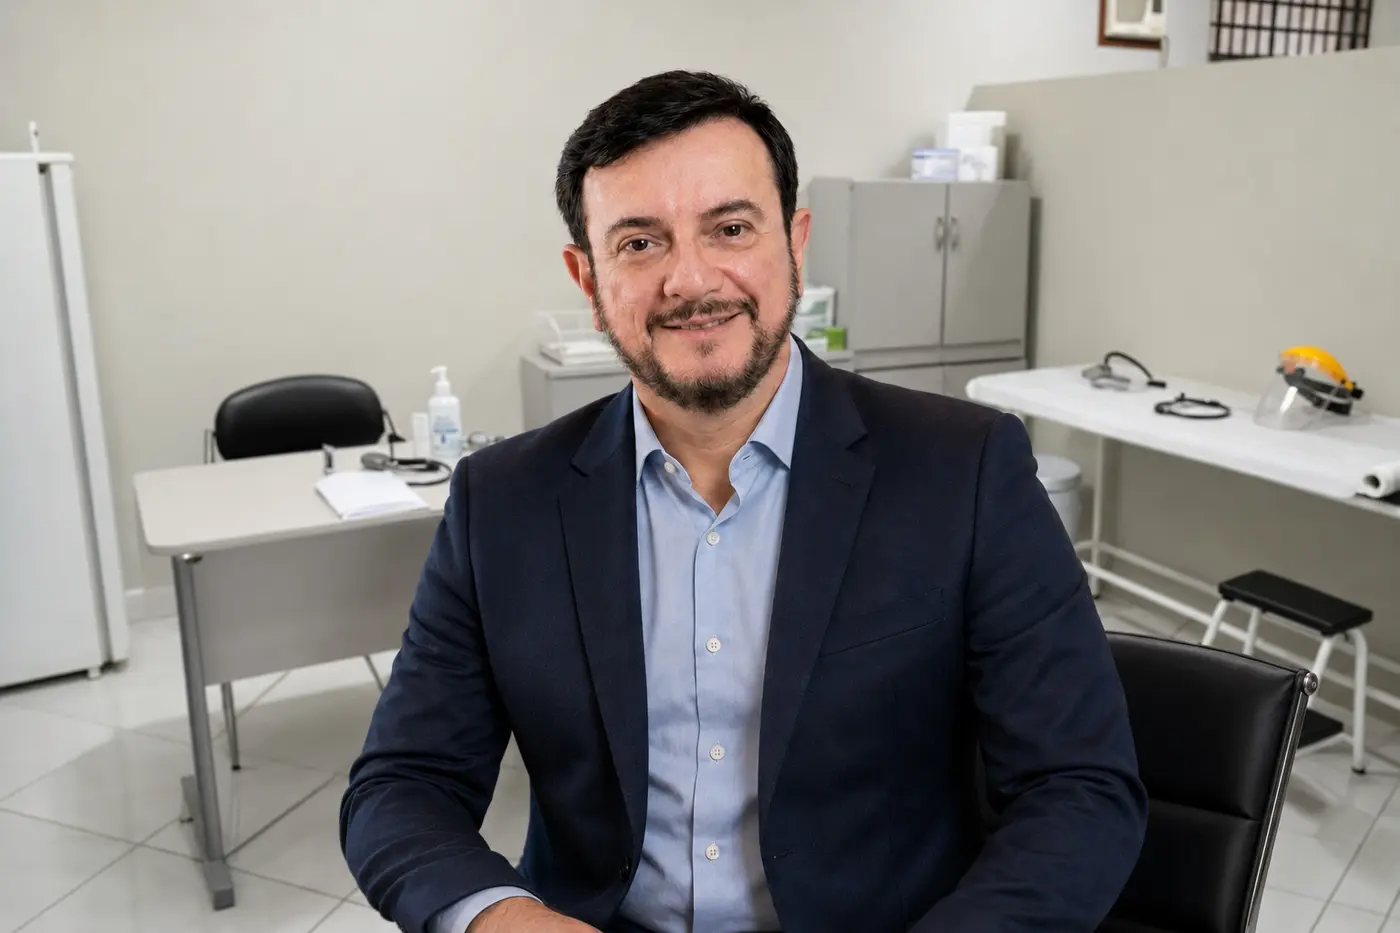
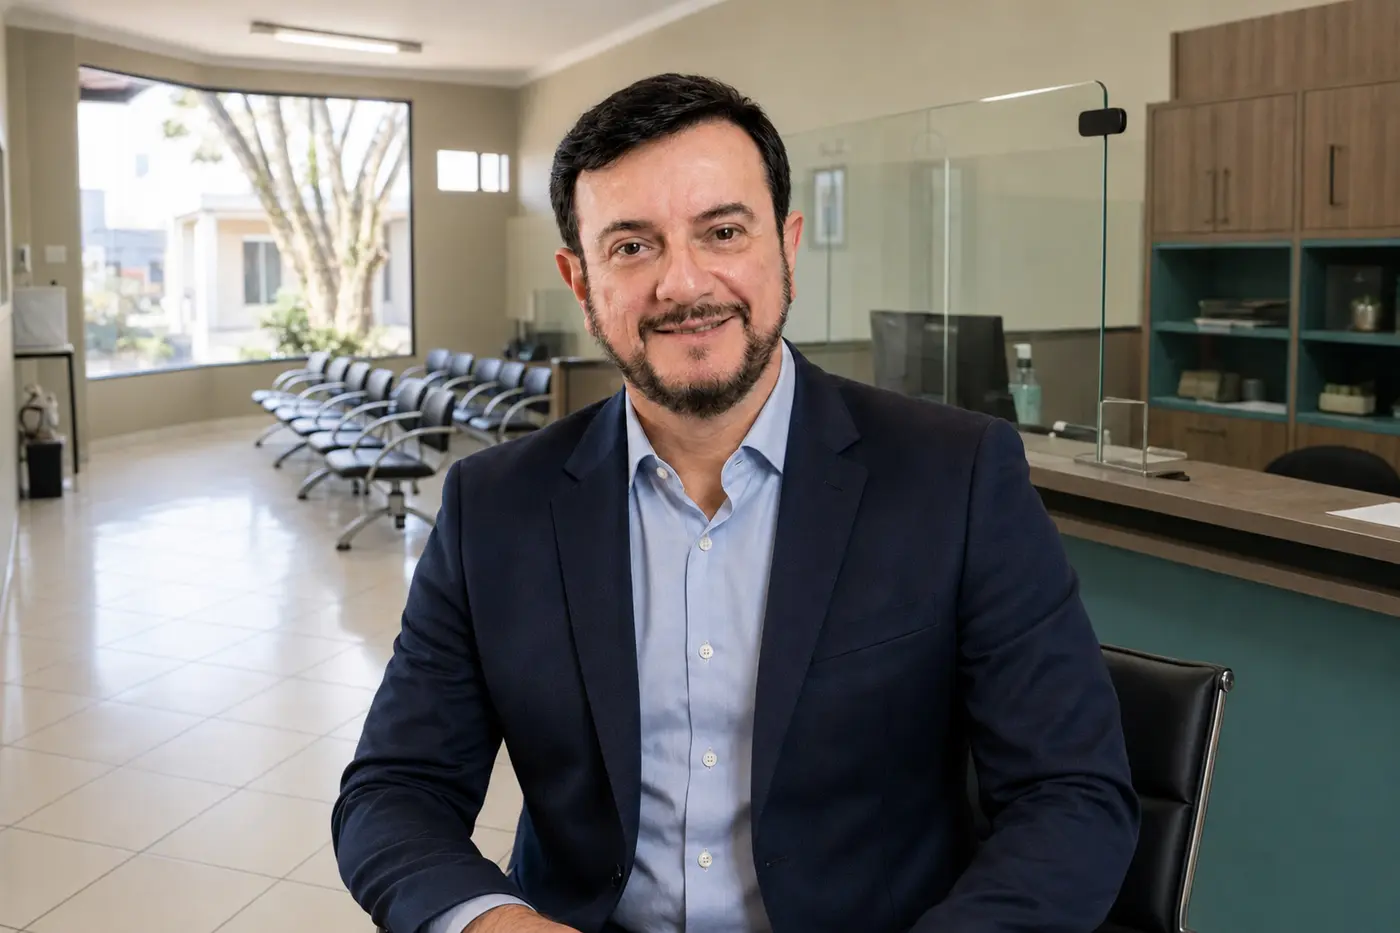
Refocus homepage on personalized respiratory assessment

diff --git a/src/app/page.tsx b/src/app/page.tsx
@@ -23,13 +23,13 @@ export default function Home() {
         <div className="hero-copy">
           <p className="kicker">Pneumologia em Maringá</p>
           <h1>Respirar bem.<br/><em>Viver por inteiro.</em></h1>
-          <p className="hero-lead">Cuidado respiratório especializado, preciso e humano — da prevenção ao tratamento.</p>
-          <div className="hero-actions"><a href="https://wa.me/5544991721222" className="button" target="_blank" rel="noreferrer">Agendar consulta <span>↗</span></a><Link href="#cuidados" className="text-link">Conheça os cuidados <span>↓</span></Link></div>
+          <p className="hero-lead">Acompanhamento personalizado, altamente qualificado e multidisciplinar, com foco em qualidade de vida e resultados duradouros.</p>
+          <div className="hero-actions"><a href="https://wa.me/5544991721222" className="button" target="_blank" rel="noreferrer">Agende sua avaliação respiratória <span>↗</span></a><Link href="#cuidados" className="text-link">Conheça os cuidados <span>↓</span></Link></div>
         </div>
         <div className="lung-art" aria-hidden="true">
           <div className="air air-one"/><div className="air air-two"/><div className="air air-three"/>
           <svg viewBox="0 0 580 660" fill="none"><path d="M291 68v184M291 182c-39 17-64 50-76 98M291 182c39 17 64 50 76 98" className="trachea"/><path d="M269 260c-20-72-66-114-114-104-52 11-90 82-102 167-17 117 18 232 104 238 76 5 113-50 114-120l-2-181Z" className="lung left"/><path d="M313 260c20-72 66-114 114-104 52 11 90 82 102 167 17 117-18 232-104 238-76 5-113-50-114-120l2-181Z" className="lung right"/><path d="M266 278c-47 39-76 91-85 160M316 278c47 39 76 91 85 160M242 323l-59-39M340 323l59-39M224 369l-56 22M358 369l56 22" className="bronchi"/></svg>
-          <div className="hero-stat"><b>20+</b><span>anos dedicados<br/>à medicina</span></div>
+          <div className="hero-stat"><b>25+</b><span>anos dedicados<br/>à medicina</span></div>
         </div>
         <div className="scroll-cue"><span>Role para descobrir</span><i/></div>
       </section>
@@ -44,7 +44,7 @@ export default function Home() {
       </section>
 
       <section className="care" id="cuidados">
-        <div className="section-head"><div><p className="kicker">Áreas de cuidado</p><h2>Um olhar completo<br/>para a sua <em>respiração.</em></h2></div><p>Da investigação de sintomas ao acompanhamento de doenças crônicas e procedimentos especializados.</p></div>
+        <div className="section-head"><div><p className="kicker">Avaliação respiratória individualizada</p><h2>Um olhar completo<br/>para a sua <em>respiração.</em></h2></div><p>Uma avaliação clínica e funcional integrada para compreender cada caso e definir um plano de cuidado verdadeiramente personalizado.</p></div>
         <div className="service-grid">
           {services.map((service, index) => <Reveal key={service.slug} delay={(index % 3) * 70}><Link className="service-card" href={`/cuidados/${service.slug}`}><span className="service-index">{service.icon}</span><div className="service-icon"><i/><i/><i/></div><h3>{service.title}</h3><p>{service.short}</p><span className="card-link">Saiba mais <b>↗</b></span></Link></Reveal>)}
         </div>
@@ -58,7 +58,7 @@ export default function Home() {
         <Reveal className="clinic-feature-copy" delay={120}>
           <p className="kicker">Estrutura completa</p>
           <h2 id="estrutura-title">Cuidado e tecnologia<br/><em>no mesmo lugar.</em></h2>
-          <p>Ambientes acolhedores e estrutura preparada para consultas, avaliações e exames respiratórios com segurança.</p>
+          <p>Ambientes acolhedores e estrutura preparada para uma avaliação respiratória individualizada, reunindo cuidado clínico e recursos funcionais de forma integrada.</p>
           <div className="clinic-feature-detail"><Image src="/clinic/equipamentos.jpeg" alt="Equipamentos para exames de função pulmonar" fill sizes="(max-width: 900px) 42vw, 22vw"/><span>Equipamentos para avaliação da função pulmonar</span></div>
         </Reveal>
       </section>
@@ -75,7 +75,17 @@ export default function Home() {
         <Reveal className="credentials-copy"><p className="kicker light">Formação & experiência</p><h2>Ciência, precisão<br/>e <em>humanidade.</em></h2><p>Médico formado pela Universidade Estadual de Maringá, com especialização em Pneumologia e área de atuação em Endoscopia Respiratória pela UNIFESP.</p><div className="degree-list"><div><span>01</span><p><b>Pneumologista</b>RQE 13548</p></div><div><span>02</span><p><b>Endoscopia Respiratória</b>RQE 158 • UNIFESP</p></div><div><span>03</span><p><b>Mestre em Ciências da Saúde</b>Universidade Estadual de Maringá</p></div><div><span>04</span><p><b>Doutor em Biociências e Fisiopatologia</b>Universidade Estadual de Maringá</p></div></div></Reveal>
       </section>
 
-      <section className="principles"><p className="kicker">Um cuidado diferente</p><div className="principle-grid"><Reveal><span>01</span><h3>Escuta atenta</h3><p>Tempo e atenção para entender seus sintomas, rotina e objetivos.</p></Reveal><Reveal delay={90}><span>02</span><h3>Decisão compartilhada</h3><p>Informação clara para que você participe de cada escolha do tratamento.</p></Reveal><Reveal delay={180}><span>03</span><h3>Medicina baseada em evidências</h3><p>Condutas atualizadas, seguras e adequadas à realidade de cada paciente.</p></Reveal></div></section>
+      <section className="principles" id="diferenciais">
+        <div className="principles-head"><div><p className="kicker">Por que escolher o Dr. Sergio e sua equipe?</p><h2>Experiência que inspira confiança.<br/><em>Cuidado que gera resultados.</em></h2></div><p>Acompanhamento personalizado, altamente qualificado e multidisciplinar, com foco em qualidade de vida e resultados duradouros.</p></div>
+        <div className="principle-grid">
+          <Reveal><span>01</span><h3>Mais de 25 anos de experiência</h3><p>Uma trajetória dedicada à pneumologia, unindo prática clínica, atualização contínua e cuidado responsável.</p></Reveal>
+          <Reveal delay={70}><span>02</span><h3>Doutor e pesquisador</h3><p>Formação acadêmica sólida e atuação científica aplicadas às decisões de cada tratamento.</p></Reveal>
+          <Reveal delay={140}><span>03</span><h3>Professor universitário</h3><p>Experiência no ensino médico, contribuindo para a formação de profissionais e para uma medicina sempre atualizada.</p></Reveal>
+          <Reveal><span>04</span><h3>Referência em broncoscopia</h3><p>Atuação especializada em endoscopia respiratória e na investigação de doenças respiratórias complexas.</p></Reveal>
+          <Reveal delay={70}><span>05</span><h3>Atendimento personalizado</h3><p>Cada avaliação considera sintomas, histórico, rotina e objetivos para construir um plano individualizado.</p></Reveal>
+          <Reveal delay={140}><span>06</span><h3>Tempo dedicado ao paciente</h3><p>Atendimento multidisciplinar, cuidadoso e com o tempo adequado para ouvir, explicar e acompanhar cada pessoa.</p></Reveal>
+        </div>
+      </section>
 
       <section className="location-feature" id="clinica">
         <div className="location-image"><Image src="/clinic/fachada.jpeg" alt="Fachada do Centro Médico do Pulmão em Maringá" fill sizes="100vw"/></div>

diff --git a/src/data/services.ts b/src/data/services.ts
@@ -9,12 +9,12 @@ export type Service = {
 };
 
 export const services: Service[] = [
-  { slug: "consulta-com-pneumologista", title: "Consulta com Pneumologista", short: "Uma avaliação completa e individualizada para cuidar da sua respiração.", eyebrow: "Cuidado integral", icon: "01", intro: "A consulta é o ponto de partida para investigar, diagnosticar e tratar doenças que afetam os pulmões e as vias aéreas, sempre com foco no bem-estar integral do paciente.", sections: [
+  { slug: "consulta-com-pneumologista", title: "Avaliação Respiratória Individualizada", short: "Uma visão completa da sua saúde respiratória para definir um cuidado integrado e personalizado.", eyebrow: "Cuidado integral", icon: "01", intro: "A avaliação respiratória individualizada integra história clínica, exame físico e, quando necessário, recursos funcionais para compreender cada caso e definir o melhor plano de cuidado.", sections: [
     { title: "Para quem é indicada", body: "Pessoas com falta de ar, tosse persistente, chiado no peito, dor torácica ou rouquidão, além de fumantes e ex-fumantes que necessitam de acompanhamento preventivo." },
     { title: "Condições acompanhadas", body: "Asma, DPOC (bronquite crônica e enfisema pulmonar), pneumonia, apneia do sono, fibrose pulmonar e sequelas respiratórias." },
     { title: "Como funciona", body: "Uma conversa detalhada sobre seu histórico, hábitos e sintomas é seguida por exame físico minucioso. Quando necessário, são solicitados exames complementares para definir o diagnóstico e o melhor plano de tratamento." },
   ]},
-  { slug: "espirometria", title: "Espirometria e Função Pulmonar", short: "O “exame do sopro” avalia a capacidade e o funcionamento dos pulmões.", eyebrow: "Diagnóstico preciso", icon: "02", intro: "Rápida, indolor e não invasiva, a espirometria mede o volume e a velocidade do ar inspirado e expirado.", sections: [
+  { slug: "espirometria", title: "Avaliação Funcional Respiratória", short: "Análise integrada da capacidade e do funcionamento dos pulmões conforme a necessidade de cada paciente.", eyebrow: "Diagnóstico preciso", icon: "02", intro: "A avaliação funcional respiratória utiliza recursos como a espirometria para analisar, de forma rápida, indolor e não invasiva, o volume e a velocidade do ar inspirado e expirado.", sections: [
     { title: "Para quem é indicada", body: "Para diagnóstico e acompanhamento de asma e DPOC, avaliação pré-operatória, investigação de tosse persistente e monitoramento de pessoas expostas a poeira, fumaça ou produtos químicos." },
     { title: "Como funciona", body: "Sentado confortavelmente e com uma presilha nasal, o paciente assopra por um bocal descartável conectado ao espirômetro. O equipamento registra com precisão o fluxo de ar." },
     { title: "Orientações", body: "O exame pode ser realizado com ou sem broncodilatador para avaliar a resposta dos brônquios." },

diff --git a/src/app/globals.css b/src/app/globals.css
@@ -53,3 +53,8 @@
 @media(max-width:600px){.clinic-feature-main{min-height:390px}.clinic-feature-caption{left:7vw;right:7vw;bottom:25px;display:block}.clinic-feature-caption b{display:block;font-size:23px;margin-top:7px}.clinic-feature-copy{padding:75px 7vw}.clinic-feature-detail{width:100%;height:210px}.credentials-visual{min-height:430px}.credentials-portrait-frame{width:86%;max-width:520px;border-width:5px;border-radius:17px}.credentials-portrait-frame img{object-position:center center}.credentials-photo-label{left:7vw;right:7vw;bottom:28px;display:block}.credentials-photo-label small{display:block;margin-top:6px}.location-feature{height:auto;min-height:0;background:#082a45;overflow:visible}.location-image{position:relative;inset:auto;height:330px}.location-image img{object-position:center center}.location-image:after{background:linear-gradient(180deg,transparent 70%,rgba(8,42,69,.22))}.location-card{position:relative;top:auto;bottom:auto;left:auto;width:auto;margin:0;background:#082a45;border-radius:0;transform:none;padding:42px 7vw 55px;backdrop-filter:none}.location-card.is-visible{transform:none}.location-card h2{font-size:46px}}
 
 @media(max-width:600px){.intro{padding-top:85px}.intro-visual{min-height:360px}.intro-photo-main{right:12%;border-radius:130px 130px 14px 14px}.intro-photo-detail{border-width:5px}.brand-photo{height:42px;width:42px;flex-basis:42px}.location-card .button{width:100%}}
+
+/* Diferenciais e posicionamento da avaliação respiratória */
+.principles-head{display:grid;grid-template-columns:1.25fr .75fr;gap:8vw;align-items:end}.principles-head h2{font-family:var(--font-cormorant);font-weight:500;font-size:clamp(48px,5.8vw,86px);line-height:.92;letter-spacing:-.04em;margin:0}.principles-head h2 em{font-weight:400;color:var(--green-2)}.principles-head>p{max-width:430px;color:#607588;font-size:13px;line-height:1.9}.principle-grid{row-gap:70px}.principle-grid h3{margin-top:34px}.principle-grid>div{min-width:0}
+@media(max-width:900px){.principles-head{grid-template-columns:1fr}.principles-head>p{margin-top:28px}.principle-grid{row-gap:20px}.nav-cta{white-space:normal}}
+@media(max-width:600px){.principles{padding:100px 7vw}.principles-head h2{font-size:50px}.principle-grid h3{margin-top:26px}.hero-actions .button{max-width:290px;line-height:1.35}.footer .button-light{max-width:310px;line-height:1.35}}

diff --git a/src/components/site-footer.tsx b/src/components/site-footer.tsx
@@ -6,7 +6,7 @@ export function SiteFooter() {
     <div className="footer-content">
       <p className="kicker light">Vamos conversar</p>
       <h2>Cuidar da sua respiração<br/>é cuidar da sua vida.</h2>
-      <a href="https://wa.me/5544991721222" target="_blank" rel="noreferrer" className="button button-light">Agendar pelo WhatsApp <span>↗</span></a>
+      <a href="https://wa.me/5544991721222" target="_blank" rel="noreferrer" className="button button-light">Agende sua avaliação respiratória <span>↗</span></a>
       <div className="footer-grid">
         <div><span>Consultório</span><p>Avenida Carlos Gomes, 242<br/>Zona 05 — Maringá, PR<br/>CEP 87015-200</p></div>
         <div><span>Contato</span><a href="tel:+554430311222"><b>Telefone:</b> (44) 3031-1222</a><a href="https://wa.me/5544991721222" target="_blank" rel="noreferrer"><b>Celular / WhatsApp:</b> (44) 99172-1222</a><a href="mailto:sergiogravapneumo@gmail.com">sergiogravapneumo@gmail.com</a></div>

diff --git a/src/app/cuidados/[slug]/page.tsx b/src/app/cuidados/[slug]/page.tsx
@@ -20,7 +20,7 @@ export default async function ServicePage({ params }: { params: Promise<{ slug: 
       <p className="kicker">{service.eyebrow}</p>
       <h1>{service.title}</h1>
       <p className="detail-lead">{service.intro}</p>
-      <a href="https://wa.me/5544991721222" target="_blank" rel="noreferrer" className="button">Agendar consulta <span>↗</span></a>
+      <a href="https://wa.me/5544991721222" target="_blank" rel="noreferrer" className="button">Agende sua avaliação respiratória <span>↗</span></a>
     </section>
     <section className="detail-content">
       <div className="detail-aside"><span>Dr. Sergio Grava</span><p>Pneumologista<br/>RQE 13548</p></div>

diff --git a/src/components/site-header.tsx b/src/components/site-header.tsx
@@ -17,7 +17,7 @@ export function SiteHeader() {
         <Link href="/#sobre" onClick={() => setOpen(false)}>Sobre</Link>
         <Link href="/#cuidados" onClick={() => setOpen(false)}>Cuidados</Link>
         <Link href="/#contato" onClick={() => setOpen(false)}>Contato</Link>
-        <a className="nav-cta" href="https://wa.me/5544991721222" target="_blank" rel="noreferrer">Agendar consulta <span>↗</span></a>
+        <a className="nav-cta" href="https://wa.me/5544991721222" target="_blank" rel="noreferrer">Agende sua avaliação respiratória <span>↗</span></a>
       </nav>
     </div>
   </header>;
